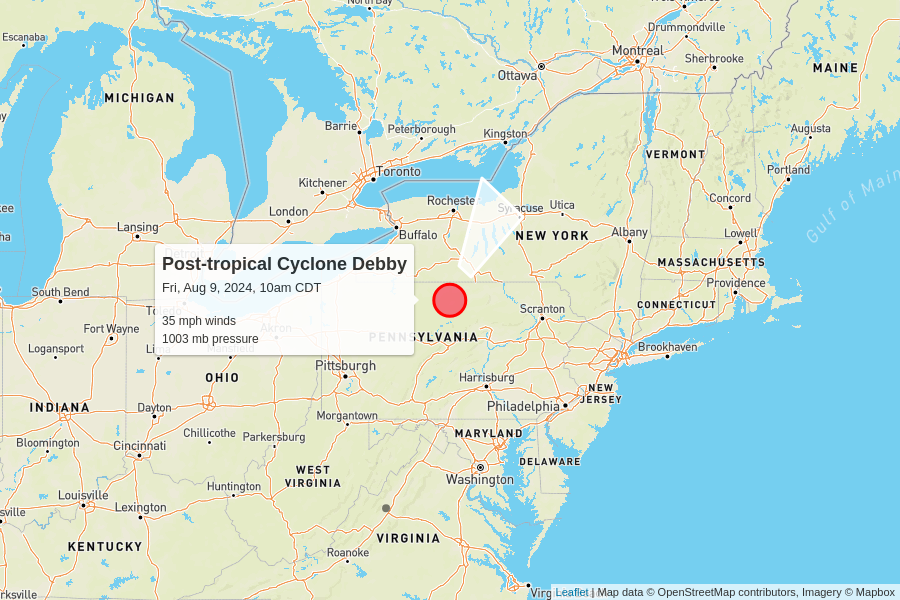
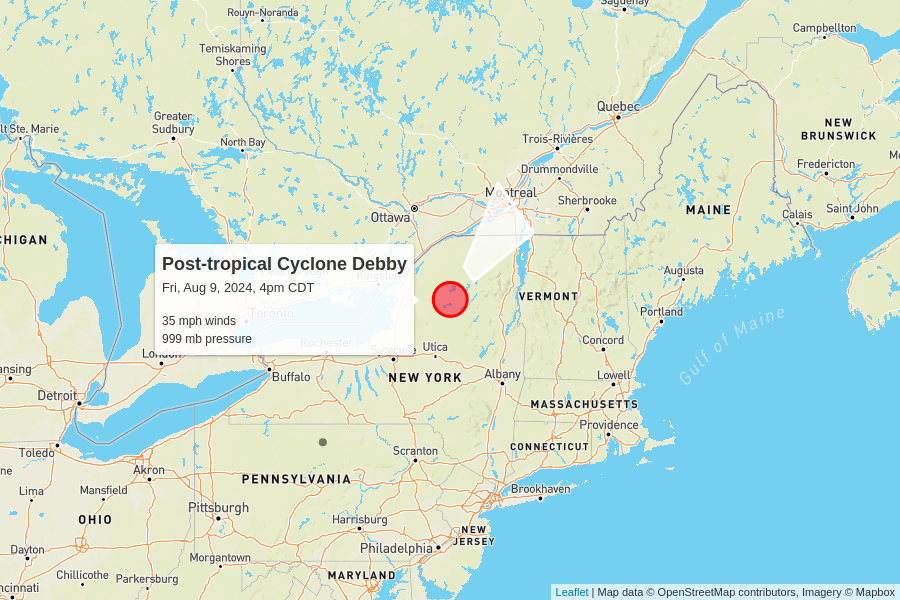
automatic update

diff --git a/docs/index.html b/docs/index.html
@@ -102,7 +102,7 @@
         <td colspan="6" class="storm category-0" >
           <h2>
             Post-tropical Cyclone Debby
-            <p class="updated">last updated <span data-time>2024-08-09T15:00:00.000Z</span></p>
+            <p class="updated">last updated <span data-time>2024-08-09T21:00:00.000Z</span></p>
           </h2>
         </td>
       </tr>
@@ -117,12 +117,12 @@
       </tr>
       <tr>
         <td class="spacer"></td>
-        <td>35 mph<br>+5 mph since last update</td>
-        <td>1003 mb<br>0 mb since last update</td>
+        <td>35 mph<br>0 mph since last update</td>
+        <td>999 mb<br>-4 mb since last update</td>
         <td>
-          37 mph to the northeast
+          38 mph to the northeast
           <br/>
-          <span style="display: inline-block; font-size: 1.5em; transform: rotate(35deg);">↑</span>
+          <span style="display: inline-block; font-size: 1.5em; transform: rotate(45deg);">↑</span>
         </td>
         <td><a href="https://raw.githubusercontent.com/mgwalker/atlantic-hurricanes/main/data/csv/AL042024.csv">AL042024.csv</a></td>
         <td><a href="https://www.nhc.noaa.gov/archive/2024/DEBBY.shtml?">NHC advisories</a></td>
